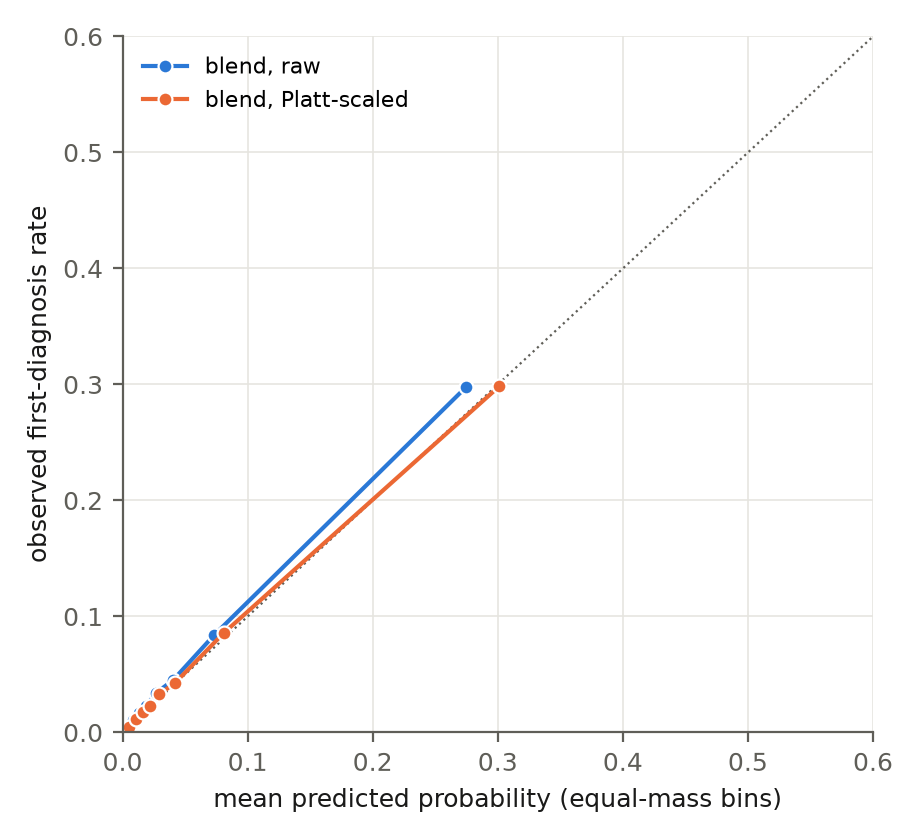
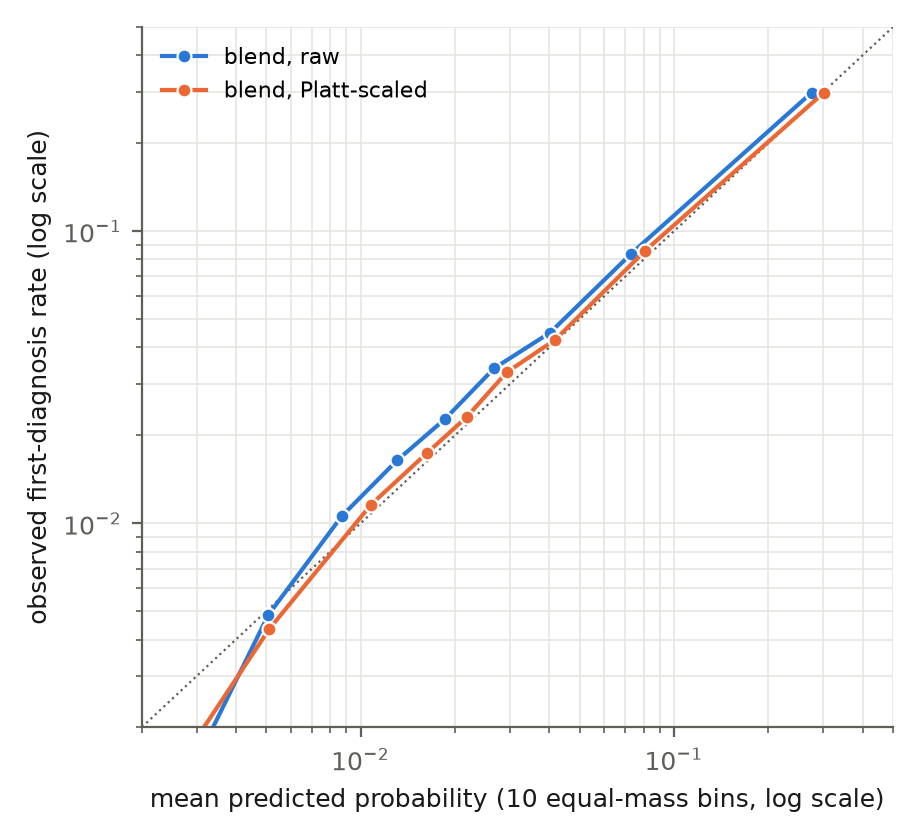
figures: reliability diagram on log axes

diff --git a/docs/figures/make_figures.py b/docs/figures/make_figures.py
@@ -59,17 +59,21 @@ fig.savefig(out / "val_per_target.png")
 print("wrote", out / "val_curves.png", out / "val_per_target.png")
 
 # Figure 3: reliability of the blend before and after Platt scaling (training CV, nested folds).
+# Log axes: with prevalence of 1 to 27 percent, equal-mass bins of all at-risk cells sit below 0.1.
 rel = pd.read_csv(root / "reports/calibration/stack/reliability.csv")
 fig, ax = plt.subplots(figsize=(4.6, 4.2))
-ax.plot([0, 0.6], [0, 0.6], color=MUTED, lw=0.8, ls=":")
+ax.plot([1e-3, 1], [1e-3, 1], color=MUTED, lw=0.8, ls=":")
 for name, color, label in (("raw", BLUE, "blend, raw"), ("calibrated", ORANGE, "blend, Platt-scaled")):
     d = rel[rel.model == name]
-    ax.plot(d.mean_probability, d.observed_rate, "-o", color=color, lw=1.5, ms=5, mec="white", mew=0.8, label=label)
-ax.set_xlabel("mean predicted probability (equal-mass bins)")
-ax.set_ylabel("observed first-diagnosis rate")
-ax.set_xlim(0, 0.6)
-ax.set_ylim(0, 0.6)
-ax.grid(color=GRID, lw=0.6)
+    ax.plot(d.mean_probability, d.observed_rate.clip(lower=1e-3), "-o", color=color, lw=1.5, ms=5,
+            mec="white", mew=0.8, label=label)
+ax.set_xscale("log")
+ax.set_yscale("log")
+ax.set_xlim(2e-3, 0.5)
+ax.set_ylim(2e-3, 0.5)
+ax.set_xlabel("mean predicted probability (10 equal-mass bins, log scale)")
+ax.set_ylabel("observed first-diagnosis rate (log scale)")
+ax.grid(color=GRID, lw=0.6, which="both")
 ax.legend(frameon=False, loc="upper left", fontsize=8)
 fig.tight_layout()
 fig.savefig(out / "reliability.png")
